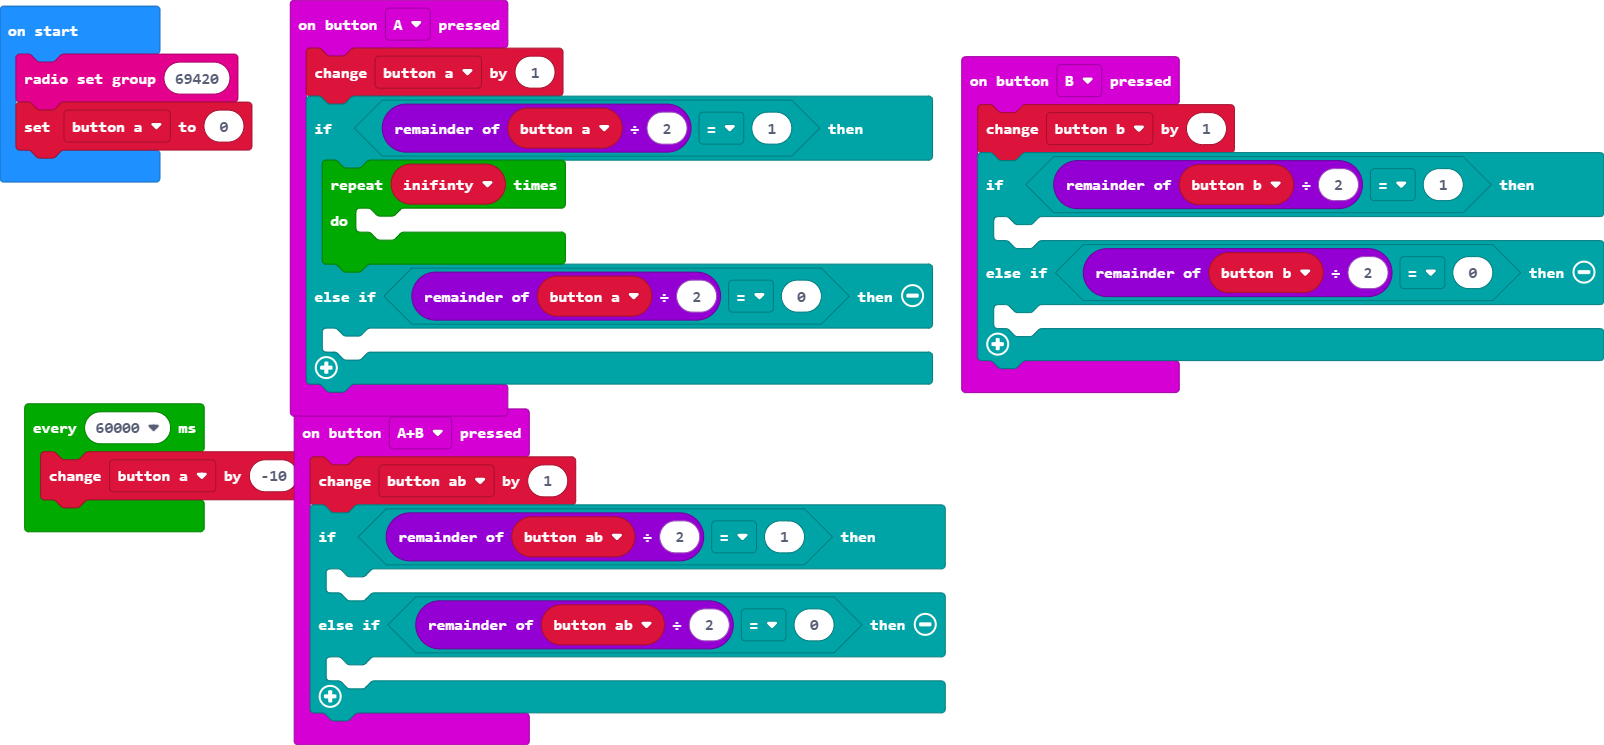
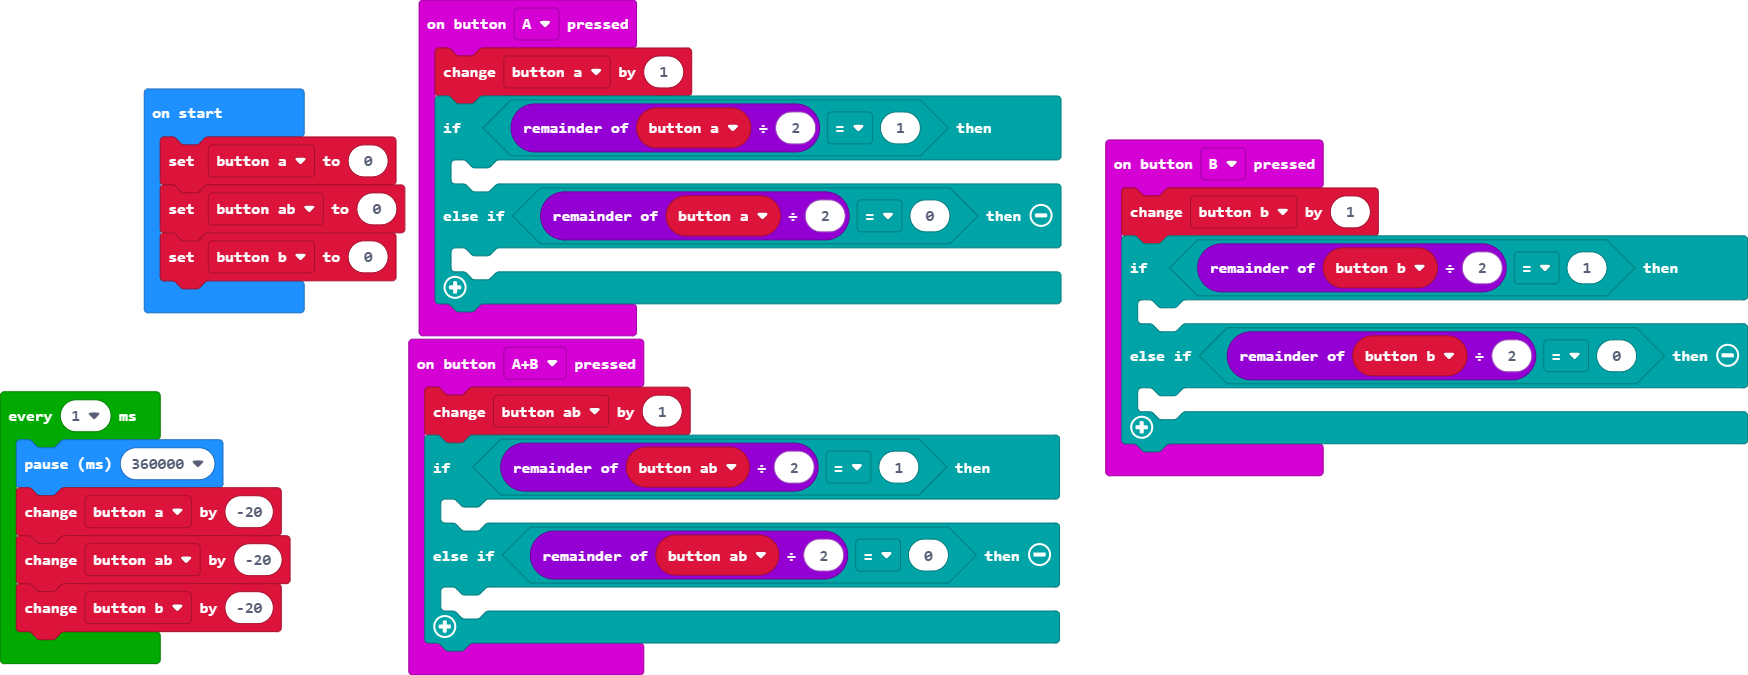
Update pxt.json, main.blocks, main.ts

diff --git a/main.ts b/main.ts
@@ -1,10 +1,7 @@
 input.onButtonPressed(Button.A, function () {
     button_a += 1
     if (button_a % 2 == 1) {
-        let inifinty = 0
-        for (let index = 0; index < inifinty; index++) {
-        	
-        }
+    	
     } else if (button_a % 2 == 0) {
     	
     }
@@ -28,8 +25,12 @@ input.onButtonPressed(Button.B, function () {
 let button_b = 0
 let button_ab = 0
 let button_a = 0
-radio.setGroup(69420)
 button_a = 0
-loops.everyInterval(60000, function () {
-    button_a += -10
+button_ab = 0
+button_b = 0
+loops.everyInterval(1, function () {
+    basic.pause(360000)
+    button_a += -20
+    button_ab += -20
+    button_b += -20
 })
